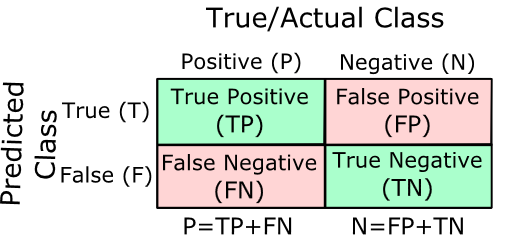
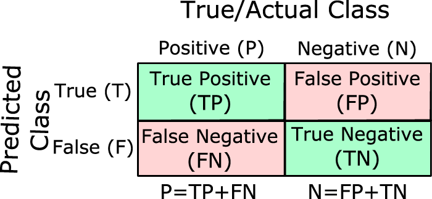
minor changes

diff --git a/Chapter/ai/MCD_ai.tex b/Chapter/ai/MCD_ai.tex
@@ -23,10 +23,40 @@ This standardizes the multidimensional space, effectively magnifying the relativ
 
 However, this standard procedure is often compromised by the masking effect \citep[Chapter 1]{hardin2005distribution}. 
 Because Mahalanobis distances are sensitive to extreme values, even a single outlier can shift the mean toward itself and artificially inflate the covariance. 
-This effectively masks the outlier's presence, leading to false negatives. 
-To address this, the Minimum Covariance Determinant (MCD) was proposed by \citet{rousseeuw1984least} and theoretically formalized in \citet{rousseeuw1985multivariate} to provide robust estimators that remain unaffected by data contamination.
-It is a parametric and affine-equivariant estimator for the mean and covariance matrix of a dataset \citep[Chapter 3]{rousseeuw1985multivariate}.
 
+
+
+\begin{figure}[H]
+    \centering
+    \begin{minipage}{0.35\textwidth}
+        \onehalfspacing
+        This effectively masks the outlier's presence, leading to false negatives. 
+        To address this, the Minimum Covariance Determinant (MCD) was proposed by \citet{rousseeuw1984least} and theoretically formalized in \citet{rousseeuw1985multivariate} to provide robust estimators that remain unaffected by data contamination.
+        It is a parametric and affine-equivariant estimator for the mean and covariance matrix of a dataset \citep[Chapter 3]{rousseeuw1985multivariate}.
+    \end{minipage}%
+    \hfill 
+    \begin{minipage}{0.6\textwidth}
+        \centering
+        \includegraphics[width=\textwidth]{Images/MCD.pdf}
+        \vspace{0.1cm} 
+        {\color{gray}\fontsize{7pt}{8pt}\selectfont Source: \citep[Fig.~1]{hubert2018minimum}}
+        \vspace{0.2cm}
+        \caption{Minimum Covariance Determinant.}
+        \label{fig:mcd}
+    \end{minipage}  
+\end{figure}
+
+
+%\begin{figure}[h] 
+%    \centering
+%    \includegraphics[width=0.45\textwidth]{Images/MCD.pdf}
+%    \vspace{0.1cm} 
+
+%    
+%    \vspace{0.2cm}
+%    
+%    \label{fig:mcd}
+%\end{figure}
 
 \subsubsection*{Minimum Covariance Determinant (MCD)}
 The objective of the MCD is to identify a subset $H$ containing $h$ observations that yields the minimum possible and robust covariance matrix determinant.
@@ -34,16 +64,6 @@ Geometrically, the MCD seeks the smallest possible ellipsoid that encapsulates $
 By drawing this ellipsoid around the region of highest local density rather than the entire dataset, the MCD effectively excludes global and contextual outliers and eliminates the masking effect.
 For a graphical depiction, see figure \ref{fig:mcd}.
 
-
-\begin{figure}[h] 
-    \centering
-    \includegraphics[width=\textwidth]{Images/MCD.pdf}
-    \vspace{0.1cm} 
-    {\color{gray}\fontsize{7pt}{8pt}\selectfont Source: \citep[Fig.~1]{hubert2018minimum}}
-    \vspace{0.2cm}
-    \caption{Minimum Covariance Determinant.}
-    \label{fig:mcd}
-\end{figure}
 
 A significant limitation of the original MCD algorithm is its computational complexity \citep{rousseeuw1999fast}. 
 Finding the optimal subset requires evaluating $\binom{n}{h}$ combinations, which is infeasible for large datasets \citep[Chapter 4]{rousseeuw1985multivariate}. 

diff --git a/Chapter/ai/metrics_ai.tex b/Chapter/ai/metrics_ai.tex
@@ -23,15 +23,15 @@ Depending on the metric employed, such variations can produce deceptively high p
 Due to these limitations, particularly in the presence of class imbalance, Accuracy is excluded from the performance evaluation in this thesis.
 
 
+
 \subsubsection*{Confusion Matrix}
 In the context of outlier detection, performance is evaluated using a $2\times2$ confusion matrix \citep[p. 170]{tharwat2021classification}. 
 This matrix facilitates a direct comparison between the predicted classifications and the actual ground truth labels. 
 The structure of the confusion matrix is organized such that the horizontal axis represents the predicted classes generated by the detection method, while the vertical axis represents the true classes. 
-For a graphical depiction, see figure \ref{fig:confusionmatrix}
-
 \begin{figure}[htbp]  
     \centering
-    \includegraphics[width=\textwidth]{Images/Confusion_Matrix.pdf}
+    \includegraphics[width=0.6\textwidth]{Images/Confusion_Matrix.pdf}
+
     \vspace{0.1cm} 
     {\color{gray}\fontsize{7pt}{8pt}\selectfont Source: \citep[Fig.~1]{tharwat2021classification}}
     \vspace{0.2cm}
@@ -40,7 +40,8 @@ For a graphical depiction, see figure \ref{fig:confusionmatrix}
 \end{figure}
 
 
-Each observation is assigned to one of the four cells based on this comparison: True Positives (TP) and True Negatives (TN) represent correct identifications of outliers and inliers, respectively, whereas False Positives (FP) and False Negatives (FN) represent misclassification errors. 
+
+As seen in figure \ref{fig:confusionmatrix} the observations are assigned to one of the four cells: True Positives (TP) and True Negatives (TN) represent correct identifications of outliers and inliers, respectively, whereas False Positives (FP) and False Negatives (FN) represent misclassification errors. 
 This systematic categorization serves as the foundation for calculating Precision, Recall and Specificity.
 
 

diff --git a/Chapter/ai/Intercont_ai.tex b/Chapter/ai/Intercont_ai.tex
@@ -33,14 +33,14 @@ The authors proposed a sliding window approach for data augmentation to facilita
 
 \begin{figure}[htbp]
     \centering
-    \begin{minipage}{0.5\textwidth}
+    \begin{minipage}{0.35\textwidth}
         \onehalfspacing
         The model initialization involves treating the rows of the dataset $S$ as a vector $x_i$ with a total length of $d$. 
         The number of pairs $\phi(x_i)={(a_i,b_i)}$ for one instance $x_i$ is determined by the formula $m=d+1-k$, where $k$ represents the defined length of the positive sample $a_i$. 
         The anchor $b_i$ is composed of the residual features $d-k$, functioning as the complementary vector to the positive sample.               
     \end{minipage}
     \hfill 
-    \begin{minipage}{0.45\textwidth}
+    \begin{minipage}{0.6\textwidth}
     \centering
     \includegraphics[width=\textwidth]{Images/Shenkar_Wolf.pdf}
     \vspace{0.1cm} 

diff --git a/Chapter/ai/contrastive_learning_ai.tex b/Chapter/ai/contrastive_learning_ai.tex
@@ -61,7 +61,7 @@ The network is trained by minimizing the reconstruction error, a process that en
 
 \begin{figure}[htbp] 
     \centering
-    \includegraphics[width=0.8\textwidth, interpolate=false]{Images/contrastive_learning_pipeline.pdf}
+    \includegraphics[width=0.8\textwidth]{Images/contrastive_learning_pipeline.pdf}
  
     {\color{gray}\fontsize{7pt}{8pt}\selectfont Source: \citep[Fig.~2]{jaiswal2020survey}}
     \vspace{0.2cm}

diff --git a/main.tex b/main.tex
@@ -127,6 +127,6 @@ Augsburg, May 2026
 \bibliography{Literatur}
 \newpage	
 \appendix
-%\input{Chapter/ai/appendix}   
+\input{Chapter/ai/appendix}   
         
 \end{document}											 
